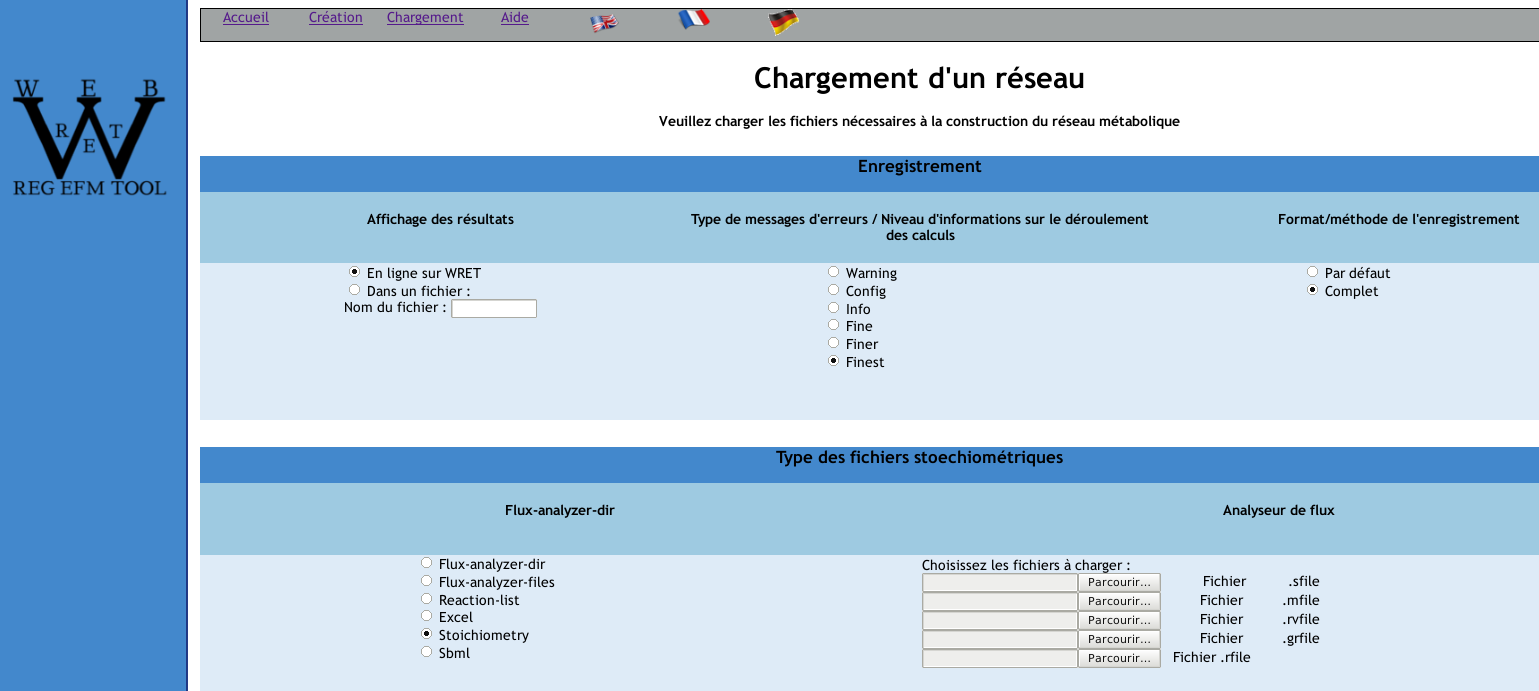
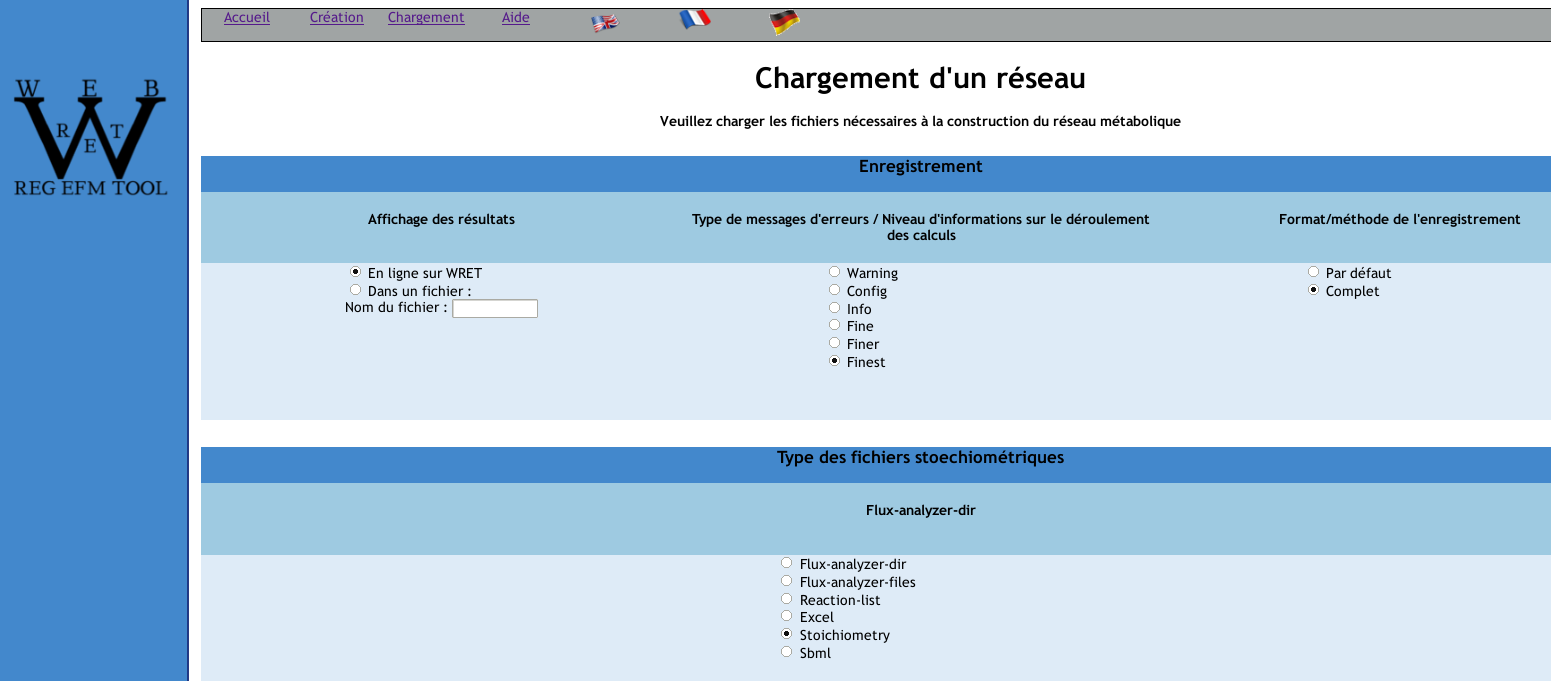
relaisation

diff --git a/Rapport/realisation.tex b/Rapport/realisation.tex
@@ -2,7 +2,21 @@
 \chapter{Réalisation}
 %%%%%%%%%%%%%%%%%%%%%%%%%%%%%%
 
+%~~~~~~~~~~~~~~~~~~~~~~~~~~~~~
+\section{Ergonomie de l'interface}
+%~~~~~~~~~~~~~~~~~~~~~~~~~~~~~
+
+\subsection{Mise en page}
+Expliquer les div, le css ...
+
+\subsection{Langues}
+...
+
+%~~~~~~~~~~~~~~~~~~~~~~~~~~~~~
 \section{Création d'un nouveau réseaux}
+%~~~~~~~~~~~~~~~~~~~~~~~~~~~~~
+
+\subsection{Initialisation des fichiers}
 La création d'un nouveau réseaux dans WRET se fait via la page \emph{create.php}.
 A partir de cette page l'utilisateur doit dans un premier temps appuyer sur le bouton \emph{Initialiser les fichiers} (Figure \ref{boutonInit}) s'il désire initialiser ses fichiers. 
 
@@ -21,7 +35,7 @@ Ce bouton appelle le fichier \emph{initfiles.php} qui va créer les 11 fichiers 
 Dans ces fichiers, nous trouvons des fichiers qui seront utilisés dans le lancement de \emph{regEfmtool} (rfile, mfile, rvfile, sfile) et également des fichiers temporaires (\emph{irrevTemp}, \emph{revTemp}, \emph{reactionTemp.txt}, \emph{reactionTemp2.txt}, \emph{matrice.txt} ou encore \emph{matrice2.txt} ainsi que la base du fichier au format \emph{DAT}).\\
 Tous ces fichiers sont donc créés et donnent les droits d'édition, de lecture et d'exécution à tous les utilisateurs pour ces fichiers, afin de pouvoir être modifiés sur le serveur.
 
-\section{Réactions et réversibilité}
+\subsection{Réactions et réversibilité}
 Sous la touche \emph{Initialiser les fichiers} de la page \emph{create.php}, une fenêtre de texte permet de rentrer les réactions du réseau métabolique une à une ainsi que la réversibilité de la réaction (Figure \ref{boutonAjout}). 
 
 \begin{figure}[!ht]
@@ -40,18 +54,18 @@ Ce fichier redirige vers différentes pages, dans l'ordre : \emph{reac.php}, \em
 La première page \emph{reac.php} va permettre d'écrire dans un fichier temporaire (reactionTemp.txt) les réactions, et également, de sauvegarder la réversibilité de la réaction (0 pour non réversible, et 1 pour réversible).\\
 L'ordre est ainsi conservé entre les réactions et leur réversibilité.
 
-\section{Nom de réactions : enzymes}
+\subsection{Nom de réactions : enzymes}
 Une fois les données de réactions et de réversibilité enregistrées, la page \emph{parser\_enzymes.php} est appelée. Elle va parser le fichier temporaire des réactions (\emph{reactionTemp.txt}) et va extraire le premier élément de la réaction situé avant le ":", qui se trouve être le nom de la réaction (nom de l'enzyme généralement).\\
 Ces noms sont enregistrés dans un fichier (\emph{reaction.rfile}) en respectant les espaces et la syntaxe nécessaire à l'utilisation au sein de \emph{regEfmtool}.
 
-\section{Métabolites}
+\subsection{Métabolites}
 Après enregistrements des enzymes, le fichier \emph{parser\_metabolites.php} est appelé. Ce script va parser le fichier temporaire contenant les réactions (\emph{reactionTemp.txt}) et va enregistrer chacun des métabolites dans un fichier (\emph{meatbolites.mfile}). Au cours de ce parsage, seuls les éléments situés après le nom de l'enzyme seront pris en compte. Les noms présents plusieurs fois dans le fichier de réactions sont enregistrés une seule fois dans le fichier \emph{metabolites.mfile}.
 
-\section{Stœchiométrie}
+\subsection{Stœchiométrie}
 Enfin après génération des fichiers: \emph{rvfile}, \emph{mfile}, \emph{sfile}, \emph{rfile}, le script \emph{parser\_stoechiometry} est appelé. Il va lancer le script \emph{parser\_stoechiometry.py}. Ce dernier permet de générer la matrice de stœchiométrie nécessaire a \emph{regEfmtool}. Pour ce faire, il prend les fichiers \emph{reactionTemp.txt} et \emph{metabolites.mfile} en entrée. Il génère la matrice ligne par ligne (une ligne correspondant à une réaction). \\
 Pour chaque ligne du fichier \emph{reactionTemp.txt} une liste est créée et, pour chaque métabolite de cette réaction, sa stœchiométrie est enregistrée en respectant son ordre dans le fichiers contenant les réactifs. Ce script fournit alors en sortie le fichier \emph{stoechiometry.sfile}.
 
-\section{Modification du réseaux}
+\subsection{Modification du réseaux}
 Une fois les fichiers générés l'utilisateur est redirigé sur la page \emph{create.php}.
 Sous la touche \emph{Ajouter} se trouve une zone de texte (Figure \ref{boutonAjout}) où l'utilisateur peut modifier un réseau déjà rentré. 
 
@@ -70,7 +84,7 @@ En effet cette zone appelle le fichier \emph{reactionTemp.txt} et permet la modi
  Cette page efface le précédant fichier \emph{reactionTemp.txt} et insère le nouveau contenu que l'utilisateur a modifié. \\
  Les fichiers \emph{metabolites.mfile}, \emph{stoechiometry.sfile}, \emph{reactions.rfile}, \emph{reversibility}, sont également générés à nouveau, à chaque modification du fichier \emph{reactionTemp.txt}.
  
-\section{Création du fichier \emph{DAT}}
+\subsection{Création du fichier \emph{DAT}}
 Sous la zone de texte modifiable, un bouton \emph{DAT} permet de générer un fichier au format \emph{DAT} du réseaux métabolique précédemment rentré. \\
 
 \begin{figure}[!ht]
@@ -93,7 +107,10 @@ Ce bouton (Figure \ref{boutonDAT}) appelle la page \emph{finish\_files.php} qui 
 Le premier fichier contient l'ensemble des enzymes catalysant les réactions irréversibles. Le second contient l'ensemble des enzymes catalysant des réactions réversibles, et enfin le dernier fichier contient l'ensemble des réactions du réseaux. \\
 Chacun de ces fichiers contient les balises \emph{-IRREV}, \emph{-REV}, \emph{-CAT}, selon son contenu et respecte la syntaxe propre au format \emph{DAT}.
 
+%~~~~~~~~~~~~~~~~~~~~~~~~~~~~~
 \section{Règles des gènes}
+%~~~~~~~~~~~~~~~~~~~~~~~~~~~~~
+
 La page permettant la saisie des règles générales est obtenue à l'aide du fichier \emph{generules.php}.\\
 L'affichage à l'ouverture de la page n'est composé que d'une zone de texte et d'un bouton \emph{Ok} (Figure \ref{boutonOK}) qui est de type \textit{submit}. 
 
@@ -168,3 +185,22 @@ Règle écrite dans le fichier:
 \begin{verbatim}
 R4 = (!((1R1 \& (!0R2)) $|$ (!0R3))
 \end{verbatim}
+
+%~~~~~~~~~~~~~~~~~~~~~~~~~~~~~
+\section{Choix des options de lancement}
+%~~~~~~~~~~~~~~~~~~~~~~~~~~~~~
+
+
+
+%~~~~~~~~~~~~~~~~~~~~~~~~~~~~~
+\section{Chargement d'un réseau pré-existant}
+%~~~~~~~~~~~~~~~~~~~~~~~~~~~~~
+
+
+%~~~~~~~~~~~~~~~~~~~~~~~~~~~~~
+\section{Affichage des résultats}
+%~~~~~~~~~~~~~~~~~~~~~~~~~~~~~
+
+
+
+

diff --git a/Rapport/conception.tex b/Rapport/conception.tex
@@ -2,7 +2,9 @@
 \chapter{Conception}
 %%%%%%%%%%%%%%%%%%%%%%%%%%%%%%
 
+%~~~~~~~~~~~~~~~~~~~~~~~~~~~~~
 \section{Interface graphique}
+%~~~~~~~~~~~~~~~~~~~~~~~~~~~~~
 
 Comme nous l'avons précisé précédemment, notre interface graphique se présente sous la forme d'un site Web. 
 
@@ -33,7 +35,9 @@ Le menu contient quatre onglets:
 \end{itemize}
 On trouve aussi dans le menu, trois drapeaux qui permettent de changer la langue du site Web. Les trois langues proposées sont: l'anglais, le français et l'allemand. Par défaut le site est en français.
 
+%~~~~~~~~~~~~~~~~~~~~~~~~~~~~~
 \section{Création d'un nouveau réseau}
+%~~~~~~~~~~~~~~~~~~~~~~~~~~~~~
 
 Si l'utilisateur choisi de créer un nouveau réseau, il arrive sur une page qui va lui permettre d'ajouter de nouvelles réactions à celui-ci. \\
 
@@ -81,7 +85,9 @@ Si l'utilisateur ne sait pas comment faire, il lui suffit de cliquer sur \textit
 
 Quand l'utilisateur a fini de créer toutes les réactions qui composent son réseau, il clique sur le bouton \emph{\'Etape suivante} et arrive alors sur la page de création des règles des gènes.
 
+%~~~~~~~~~~~~~~~~~~~~~~~~~~~~~
 \section{Règles des gènes}
+%~~~~~~~~~~~~~~~~~~~~~~~~~~~~~
 
 Ces règles sont utilisées pour éliminer les modes élémentaires non possibles dans un réseau métabolique réel.\\
 
@@ -128,7 +134,9 @@ Si l'utilisateur ne sait pas comment faire, il lui suffit de cliquer sur \textit
 
 Une fois les règles entrées, l'utilisateur peut passer à l'étape suivante en cliquant sur le bouton correspondant. Il arrive alors sur la page de sélection des options nécessaires au lancement de la commande regEfmtool.
 
+%~~~~~~~~~~~~~~~~~~~~~~~~~~~~~
 \section{Choix des options de lancement}
+%~~~~~~~~~~~~~~~~~~~~~~~~~~~~~
 
 Comme nous l'avons dit précédemment, regEfmtool se lance gr\^ace à une ligne de commande. Cette page d'options (Figure \ref{options}) permet donc à l'utilisateur de sélectionner les paramètres de calcul qu'il souhaite, par la biais de boutons à cocher. Certaines options sont pré-cochées, se sont les options de base nécessaires au bon déroulement des calculs du logiciel. Cela permet à un utilisateur non expérimenté de lancer ses calculs avec le réseau qu'il vient de créer. Un utilisateur plus averti pourra modifier ces options à sa guise afin d'avoir un niveau de complexité d'exécution des calculs supérieur.\\
 
@@ -155,9 +163,12 @@ Les options sont regroupées par catégories (en fonction de ce qui était préc
 
 Une fois que l'utilisateur a coché toutes les options qu'il souhaite, il lui suffit de cliquer sur le bouton \emph{Lancement} afin de générer la commande et lancer regEfmtool. Ensuite, une page d'affichage des résultats s'affiche. 
 
+%~~~~~~~~~~~~~~~~~~~~~~~~~~~~~
 \section{Chargement d'un réseau pré-existant}
+%~~~~~~~~~~~~~~~~~~~~~~~~~~~~~
 
-Cette page accessible depuis le menu général permet à un utilisateur de charger un réseau préexistant depuis son disque dur. Il pourra également générer la ligne de commandes nécessaire au lancement de regEfmtool. Cette page est basée sur le modèle de la page du choix des options, à un détail près : dans la catégorie du type des fichiers stœchiométriques, les fichiers ne sont pas prédéfinis mais c'est à l'utilisateur à les charger. Le reste fonctionne de la m\^eme façon que précédemment. Les noms de fichiers (et leurs chemins relatifs) sont récupérés et la ligne de commande est créée. \\
+\subsection{Choix des paramètres}
+Cette page accessible depuis le menu général permet à un utilisateur de charger un réseau préexistant depuis son disque dur (Figure \ref{chargement1}). Il pourra également générer la ligne de commandes nécessaire au lancement de regEfmtool. Cette page est basée sur le modèle de la page du choix des options après création, à un détail près : dans la catégorie du type des fichiers stœchiométriques, il n'y a plus la sous-catégorie des fichiers d'analyseur de flux. Le reste fonctionne de la m\^eme façon que précédemment. \\
 
 \begin{figure}[!ht]
 	\begin{center}
@@ -166,14 +177,31 @@ Cette page accessible depuis le menu général permet à un utilisateur de charg
   			\includegraphics[width=0.90\textwidth]{../Images/Rapport/chargement.png}  
 		 \end{minipage}}
 		\caption{Partie de la page de chargement d'un réseau préexistant}
-  		\label{chargement}
+  		\label{chargement1}
   	\end{center}	
 \end{figure}
 
-L'utilisateur n'aura plus qu'à cliquer sur \textit{Lancement} pour lancer la récupération des noms des fichiers (et leurs chemins relatifs) ainsi que la création de la ligne de commande et le démarrage du logiciel. Une page de résultats s'affichera ensuite. 
+L'utilisateur n'aura plus qu'à cliquer sur \textit{Lancement} pour lancer la création de la ligne de commande. Cependant, la ligne de commande générée n'est pas la m\^eme qu'après l'étape de création: elle est incomplète. Tous les paramètres concernant les fichiers d'entrée seront récupérés lors du clic sur le bouton \textit{Étape suivante}. 
 
+\subsection{Chargement des fichiers}
+Cette page permet à l'utilisateur de sélectionner les fichiers à charger depuis son disque dur. Il y a un ordre précis du type des fichiers à charger (indiqué à l'utilisateur). 
+
+%\begin{figure}[!ht]
+%	\begin{center}
+%		\fbox{
+%   		 \begin{minipage}[c]{0.9\textwidth}
+%  			\includegraphics[width=0.90\textwidth]{../Images/Rapport/chargement.png}  
+%		 \end{minipage}}
+%		\caption{Partie de la page de chargement d'un réseau préexistant}
+%  		\label{chargement2}
+%  	\end{center}	
+%\end{figure}
+
+Une fois les fichiers sélectionnés, il suffit de cliquer sur \textit{Submit} pour effectuer le chargement. Ensuite, l'utilisateur devra cliquer sur "\textit{Résultats}" pour être dirigé vers la page d'affichage des résultats.  
+
+%~~~~~~~~~~~~~~~~~~~~~~~~~~~~~
 \section{Affichage des résultats}
-
+%~~~~~~~~~~~~~~~~~~~~~~~~~~~~~
 
 
 

diff --git a/Rapport/rapport.tex b/Rapport/rapport.tex
@@ -73,6 +73,7 @@
 \title{}
 \location{}\blurb{}
 \makeatother
+
 \title{Conception d'un Projet de Recherche}
 \author{\textsc{FR\`ECHE} Arnaud, \textsc{H\'ERIC\'E} Charlotte, \textsc{MOLA} Saraï,\\ \textsc{PAYSAN-LAFOSSE} Typhaine, \textsc{SANSEN} Joris}
 \location{Bordeaux}
@@ -84,8 +85,18 @@ Master 2 BioInformatique
 }%
 \begin{document}
 \maketitle
+
+\chapter*{Résumé}
+\addcontentsline{toc}{chapter}{Résumé}
+
+Résumé du projet ...
+
 \tableofcontents
+
 \chapter*{Introduction}
+\addcontentsline{toc}{chapter}{Introduction}
+
+Intro ...
 
 \chapter{Analyse}
 
@@ -98,6 +109,11 @@ Master 2 BioInformatique
 \input{./conception.tex}
 
 \input{./realisation.tex}
+
+\chapter*{Conclusion}
+\addcontentsline{toc}{chapter}{Conclusion}
+
+Conclusion ...
 
 \bibliographystyle{unsrt}
 \bibliography{rapport}

diff --git a/WRET/load.php b/WRET/load.php
@@ -203,7 +203,7 @@
 						</div>
 					</div>
 					<br/>
-					<input type="button" name="bout" value="<?php echo TXT_GO_BUTTON; ?>" onclick="choixParam(formulaire)">
+					<input type="button" name="bout" value="<?php echo TXT_NEXTSTEP_BUTTON; ?>" onclick="choixParam(formulaire)">
 			</form>
 
 		</div>
